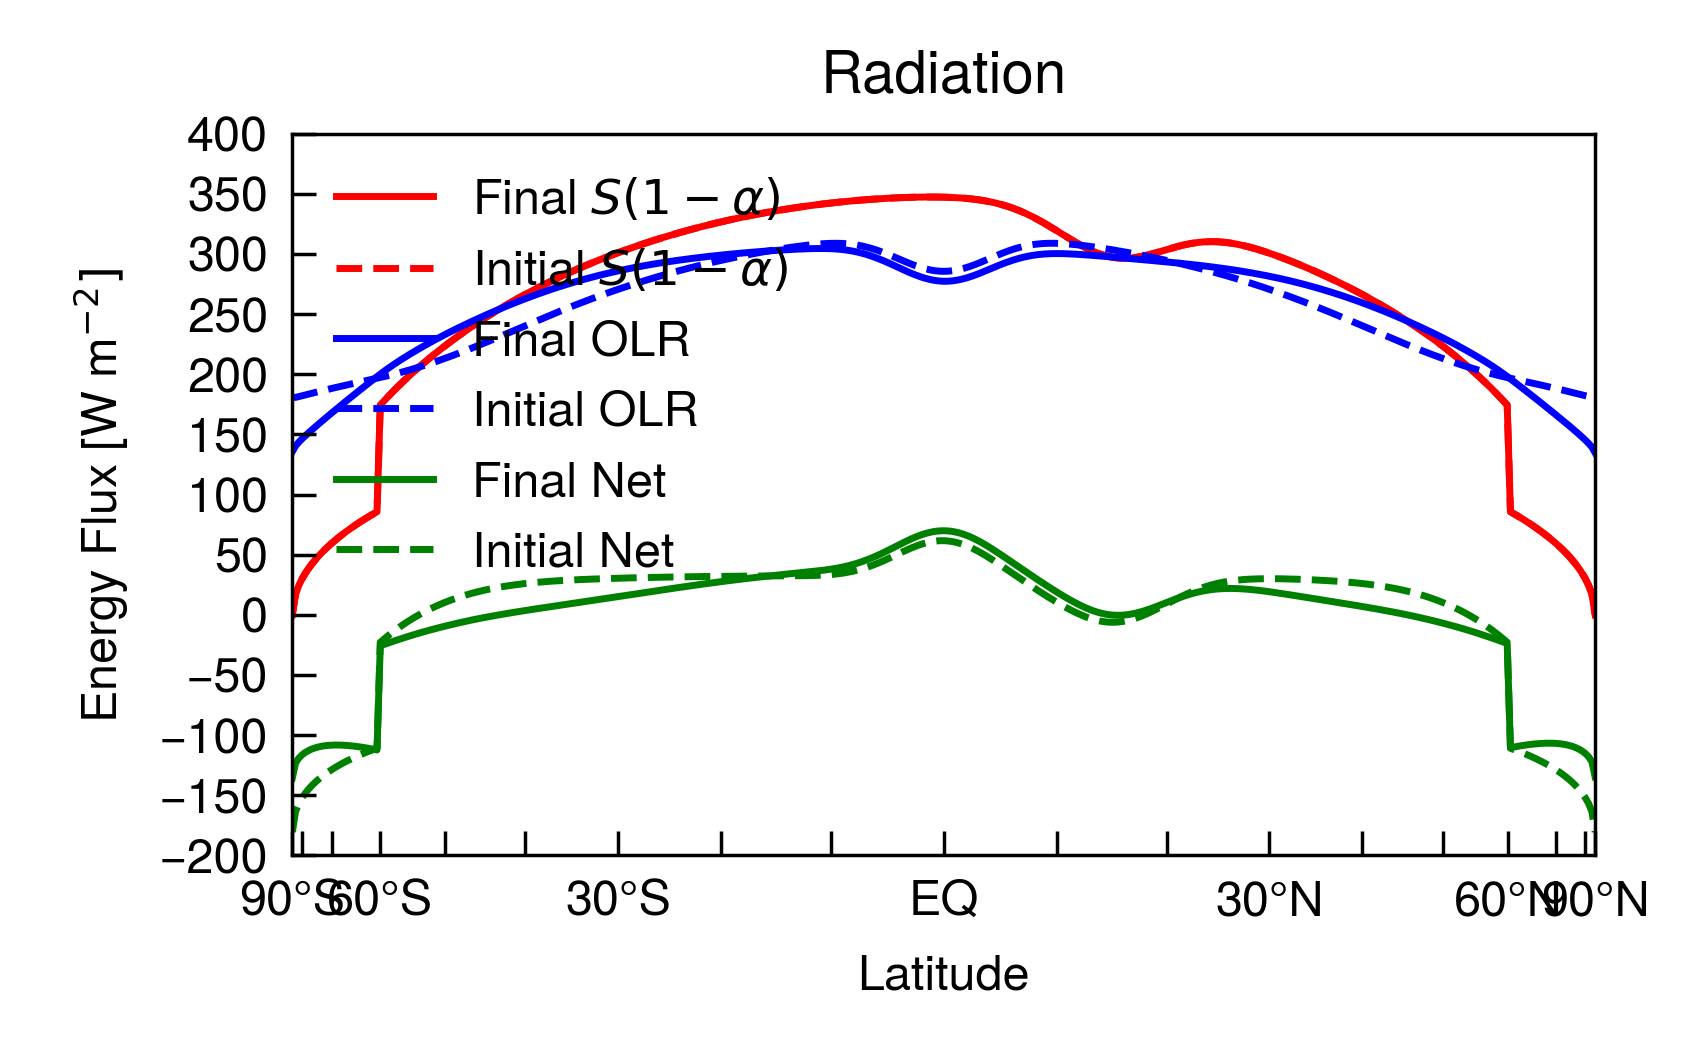
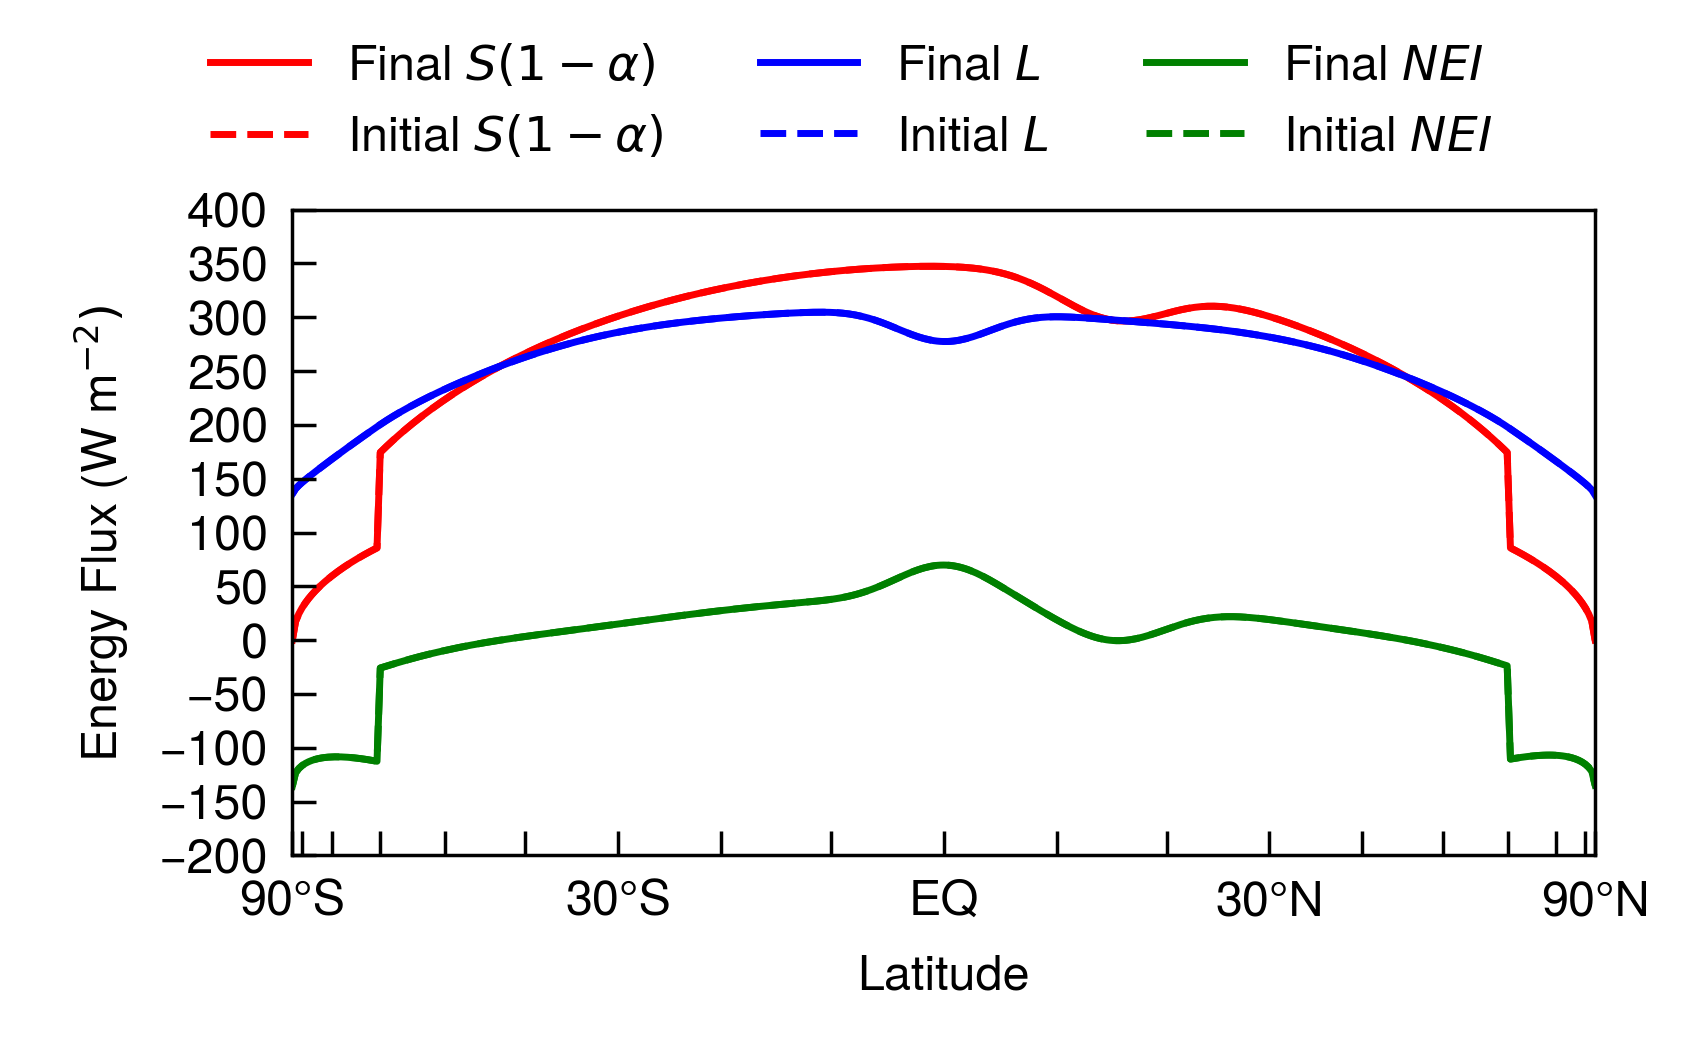
better plots!

diff --git a/EBM.py b/EBM.py
@@ -1071,13 +1071,13 @@ class EnergyBalanceModel():
         print("Mean T: {:.2f} K".format(T_avg))
 
         f, ax = plt.subplots(1)
-        ax.plot(self.sin_lats, self.T_f, "k", label="Mean $T_s$ = {:.2f} K".format(T_avg))
+        ax.plot(self.sin_lats, self.T_f, "k", label="Mean $T={:.2f}$ K".format(T_avg))
         ax.set_title("Final Temperature")
         ax.set_xlabel("Latitude")
-        ax.set_ylabel("$T_s$ [K]")
+        ax.set_ylabel("$T$ (K)")
         ax.set_xticks(np.sin(np.deg2rad(np.arange(-90, 91, 10))))
-        ax.set_xticklabels(["90°S", "", "", "60°S", "", "", "30°S", "", "", "EQ", "", "", "30°N", "", "", "60°N", "", "", "90°N"])
-        ax.legend(loc="upper right")
+        ax.set_xticklabels(["90°S", "", "", "", "", "", "30°S", "", "", "EQ", "", "", "30°N", "", "", "", "", "", "90°N"])
+        ax.legend(loc="lower center")
         
         plt.tight_layout()
         
@@ -1095,9 +1095,9 @@ class EnergyBalanceModel():
         ax.plot(self.sin_lats, self.T_f - T_ctrl, "k")
         ax.set_title("Final Temperature Anomaly")
         ax.set_xlabel("Latitude")
-        ax.set_ylabel("$T_s$ [K]")
+        ax.set_ylabel("$T$ (K)")
         ax.set_xticks(np.sin(np.deg2rad(np.arange(-90, 91, 10))))
-        ax.set_xticklabels(["90°S", "", "", "60°S", "", "", "30°S", "", "", "EQ", "", "", "30°N", "", "", "60°N", "", "", "90°N"])
+        ax.set_xticklabels(["90°S", "", "", "", "", "", "30°S", "", "", "EQ", "", "", "30°N", "", "", "", "", "", "90°N"])
         
         plt.tight_layout()
         
@@ -1114,13 +1114,13 @@ class EnergyBalanceModel():
         
         f, ax = plt.subplots(1)
         ax.plot(self.sin_lats, self.E_f / 1000, "c")
-        ax.plot([np.sin(self.EFE), np.sin(self.EFE)], [0, np.max(self.E_f)/1000], "r", label="EFE $\\approx$ {:.2f}$^\\circ$".format(np.rad2deg(self.EFE)))
+        ax.plot([np.sin(self.EFE), np.sin(self.EFE)], [0, np.max(self.E_f)/1000], "r", label="EFE $\\approx {:.2f}^\\circ$".format(np.rad2deg(self.EFE)))
         ax.set_title("Final Energy")
         ax.set_xlabel("Latitude")
-        ax.set_ylabel("MSE [kJ kg$^{-1}$]")
+        ax.set_ylabel("MSE (kJ kg$^{-1}$)")
         ax.set_ylim([np.min(self.E_f)/1000 - 1, np.max(self.E_f)/1000 + 1])
         ax.set_xticks(np.sin(np.deg2rad(np.arange(-90, 91, 10))))
-        ax.set_xticklabels(["90°S", "", "", "60°S", "", "", "30°S", "", "", "EQ", "", "", "30°N", "", "", "60°N", "", "", "90°N"])
+        ax.set_xticklabels(["90°S", "", "", "", "", "", "30°S", "", "", "EQ", "", "", "30°N", "", "", "", "", "", "90°N"])
         ax.legend(loc="upper right")
         
         plt.tight_layout()
@@ -1141,10 +1141,10 @@ class EnergyBalanceModel():
         ax.plot([np.sin(self.EFE), np.sin(self.EFE)], [np.min(dE) - 100, np.max(dE) + 100], "r", label="EFE $\\approx$ {:.2f}$^\\circ$".format(np.rad2deg(self.EFE)))
         ax.set_title("Final Energy Anomaly")
         ax.set_xlabel("Latitude")
-        ax.set_ylabel("MSE [kJ kg$^{-1}$]")
+        ax.set_ylabel("MSE (kJ kg$^{-1}$)")
         ax.set_ylim([np.min(dE) - 1, np.max(dE) + 1])
         ax.set_xticks(np.sin(np.deg2rad(np.arange(-90, 91, 10))))
-        ax.set_xticklabels(["90°S", "", "", "60°S", "", "", "30°S", "", "", "EQ", "", "", "30°N", "", "", "60°N", "", "", "90°N"])
+        ax.set_xticklabels(["90°S", "", "", "", "", "", "30°S", "", "", "EQ", "", "", "30°N", "", "", "", "", "", "90°N"])
         ax.legend(loc="upper right")
         
         plt.tight_layout()
@@ -1162,22 +1162,25 @@ class EnergyBalanceModel():
         print("Integral of (S - L): {:.5f} PW".format(10**-15 * self._integrate_lat(self.S_f*(1 - self.alb_f) - self.L_f)))
         
         f, ax = plt.subplots(1)
-        ax.plot(self.sin_lats, self.S_f*(1 - self.alb_f), "r", label="Final $S(1-\\alpha)$")
-        ax.plot(self.sin_lats, S_i, "r--", label="Initial $S(1-\\alpha)$")
-        ax.plot(self.sin_lats, self.L_f, "b", label="Final OLR")
-        ax.plot(self.sin_lats, L_i, "b--", label="Initial OLR")
-        ax.plot(self.sin_lats, self.S_f*(1 - self.alb_f) - self.L_f, "g", label="Final Net")
-        ax.plot(self.sin_lats, S_i - L_i, "g--", label="Initial Net")
+        l1, = ax.plot(self.sin_lats, self.S_f*(1 - self.alb_f), "r", label="Final $S(1-\\alpha)$")
+        l2, = ax.plot(self.sin_lats, S_i, "r--", label="Initial $S(1-\\alpha)$")
+        l3, = ax.plot(self.sin_lats, self.L_f, "b", label="Final OLR")
+        l4, = ax.plot(self.sin_lats, L_i, "b--", label="Initial OLR")
+        l5, = ax.plot(self.sin_lats, self.S_f*(1 - self.alb_f) - self.L_f, "g", label="Final Net")
+        l6, = ax.plot(self.sin_lats, S_i - L_i, "g--", label="Initial Net")
         ax.set_xticks(np.sin(np.deg2rad(np.arange(-90, 91, 10))))
-        ax.set_xticklabels(["90°S", "", "", "60°S", "", "", "30°S", "", "", "EQ", "", "", "30°N", "", "", "60°N", "", "", "90°N"])
+        ax.set_xticklabels(["90°S", "", "", "", "", "", "30°S", "", "", "EQ", "", "", "30°N", "", "", "", "", "", "90°N"])
         ax.set_ylim([-200, 400])
         ax.set_yticks(np.arange(-200, 401, 50))
-        ax.legend(loc="upper left")
-        ax.set_title("Radiation")
         ax.set_xlabel("Latitude")
-        ax.set_ylabel("Energy Flux [W m$^{-2}]$")
+        ax.set_ylabel("Energy Flux (W m$^{-2})$")
+        
+        handles = (l1, l2, l3, l4, l5, l6)
+        labels = ("Final $S(1-\\alpha)$", "Initial $S(1-\\alpha)$", "Final $L$", "Initial $L$", "Final $NEI$", "Initial $NEI$")
+        f.legend(handles, labels, loc="upper center", ncol=3)
         
         plt.tight_layout()
+        plt.subplots_adjust(top=0.8)
         
         fname = "radiation.png"
         plt.savefig(fname)
@@ -1187,9 +1190,7 @@ class EnergyBalanceModel():
         if self.plot_transports:
             ### Differences and Transports
             print("\nPlotting Differences and Transports")
-            rc("font", size=9)
-
-            f, (ax1, ax2) = plt.subplots(1, 2, figsize=(8, 2.47))
+            f, (ax1, ax2) = plt.subplots(1, 2, figsize=(7.057, 7.057/1.62/2))
 
             l1, = ax1.plot(self.sin_lats, self.dS*(1 - self.alb_ctrl), "c")
             l2, = ax1.plot(self.sin_lats, -(self.S_ctrl + self.dS)*self.dalb, "g")
@@ -1205,7 +1206,7 @@ class EnergyBalanceModel():
             ax1.set_xticklabels(["90°S", "", "", "", "", "", "30°S", "", "", "EQ", "", "", "30°N", "", "", "", "", "", "90°N"])
             ax1.set_title("(a) Feedback Differences")
             ax1.set_xlabel("Latitude")
-            ax1.set_ylabel("Energy Perturbation [W m$^{-2}$]")
+            ax1.set_ylabel("Energy Perturbation (W m$^{-2}$)")
 
             ax2.plot(self.sin_lats, 10**-15 * self.dtrans_dS, "c")
             ax2.plot(self.sin_lats, -10**-15 * self.dtrans_dalb, "g")
@@ -1221,14 +1222,14 @@ class EnergyBalanceModel():
             ax2.set_xticklabels(["90°S", "", "", "", "", "", "30°S", "", "", "EQ", "", "", "30°N", "", "", "", "", "", "90°N"])
             ax2.set_title("(b) Feedback Transports")
             ax2.set_xlabel("Latitude")
-            ax2.set_ylabel("Energy Transport [PW]")
+            ax2.set_ylabel("Energy Transport (PW)")
 
             handles = (l1, l2, l3, l4, l5, l6, l7, l8, l9)
             labels = ("$S'(1 - \\alpha)$", "$-(S + S')\\alpha'$", "$-L_{PL}'$", "$-L_{WV}'$", "$-L_{RH}'$", "$-L_{LR}$",  "$NEI'$", "Sum", "EFE")
-            f.legend(handles, labels, loc="upper center", ncol=5)
+            f.legend(handles, labels, loc="upper center", ncol=9)
             
             plt.tight_layout()
-            plt.subplots_adjust(top=0.70)
+            plt.subplots_adjust(top=0.80)
             
             fname = "differences_transports.png"
             plt.savefig(fname)

diff --git a/test_run.py b/test_run.py
@@ -4,8 +4,8 @@ from EBM import EnergyBalanceModel
 
 model = EnergyBalanceModel(N_pts=401, dtmax_multiple=1e3, max_sim_years=10.0, tol=1e-8, diffusivity="constant")
 
-# model.initial_temperature(initial_condition="load_data", low=None, high=None)
-model.initial_temperature(initial_condition="legendre", low=250, high=300)
+model.initial_temperature(initial_condition="load_data", low=None, high=None)
+# model.initial_temperature(initial_condition="legendre", low=250, high=300)
 
 model.insolation(insolation_type="perturbation", perturb_center=15, perturb_spread=4.94, perturb_intensity=5)
 # model.insolation(insolation_type="perturbation", perturb_center=60, perturb_spread=9.89, perturb_intensity=18)
